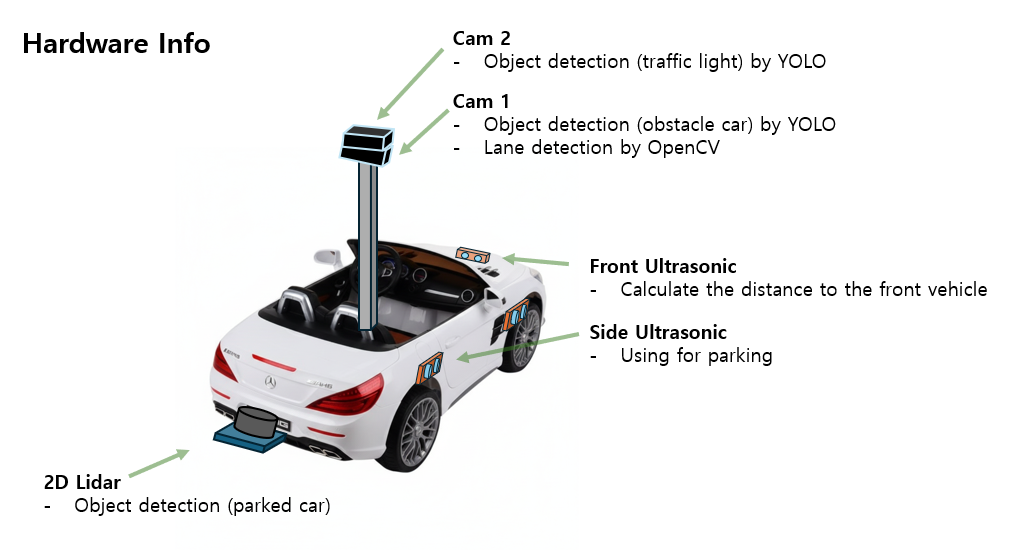
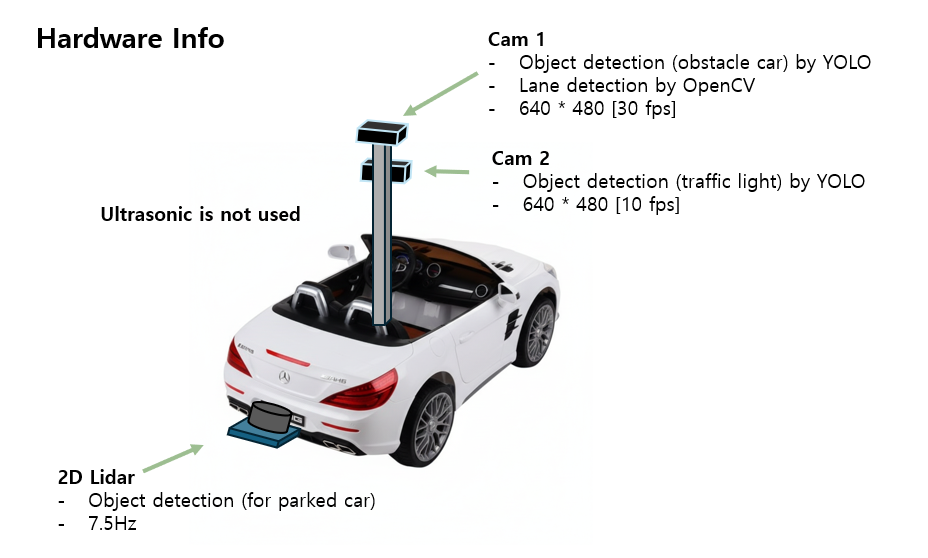
edit readme

Changed region(s): [[0.0312, 0.0617, 0.9688, 0.9564], [0.0, 0.0309, 0.25, 0.0926], [0.4062, 0.0926, 0.4375, 0.1543]]

diff --git a/laser_detection/README.md b/laser_detection/README.md
@@ -1,8 +1,43 @@
 # 2D LiDAR Car Detection
 
-2D LiDAR를 활용하여 차량을 검출 및 tracking 하는 패키지.
-![Demo GIF](./imgs/tracking1.gif)
-<br><br>
+### 2D LiDAR를 활용하여 주차 미션을 위한 차량을 Detection 및 Tracking 하는 패키지.
+![Demo GIF](./assets/tracking1.gif)
+<br>
+- Id : 4, 6 is parked car
+<br>
+
+## Process
+![process block](./assets/flow.png)
+1. **/scan**을 받아 전처리(ROI) 및 **PointCloud**로 변환 
+2. 이전 프레임에 감지된 객체로부터 **Constant Velocity** 모델을 적용하여 예상 위치 지정. <br>만약 감지된 프레임이 없다면 곧바로 **Euclidean Clustering**을 통해 객체 감지. 
+3. 각 객체의 예상 위치로부터 주변의 **Pointcloud를 객체에 할당**. 
+4. 객체가 할당된 Pointcloud를 가지고 있으면 해당 PointCloud에 **Circle fitting**.<br> PointCloud가 할당되지 않았으면 **Pred 상태 유지**(ex 10프레임 동안 CV로 Prediction)
+5. 객체에 할당되지 않은 나머지 **PointCloud에 대해서 Euclidean Clustering** 진행.
+
+
+### Key Strategies
+- 2D Lidar의 불안정성과 검출되는 Point의 부족함을 고려하여 **Tracking**이 가능하도록 하였음. <br> 또한, 한번 감지한 물체는 처음 Euclidean clustering의 조건에 맞지 않더라도 남아있는 PointCloud가 하나라도 있다면 **지속해서 감지**할 수 있도록 설계함.
+
+- **why not L-shape fitting?** <br>
+Lidar에 찍히는 실제 차량의 PointCloud가 sparse하고 L-Shape이 아닌 상황 많기 때문에 사각형 fitting이 흔들려 center point도 흔들리게 된다. 해당 알고리즘은 parking planner 에서 stanley path을 만드는데 사용됨으로, detection되는 객체의 center point 안정성이 중요하다. 따라서 PointCloud의 중심점을 기반으로 한 피팅 방법을 사용하였다.
+
+## Topics
+
+### Input Topic
+| Name | Type | Uses |
+| :--- | :--- | :--- |
+| `/scan` | `sensor_msgs/LaserScan` | raw data |
+
+### Output Topics
+| Name | Type | Uses |
+| :--- | :--- | :--- |
+| `/local_costmap` | `nav_msgs/OccupancyGrid` | occupancy grid |
+| `/clustered_cloud` | `sensor_msgs/PointCloud2` | visualization & clustering |
+| `/detection_markers` | `visualization_msgs/MarkerArray` | visualization circle |
+| `/detection_poses` | `geometry_msgs/PoseArray` | center point, ID (x, y, ID) |
+| `/detection_poses` | `geometry_msgs/PoseArray` | center point for visualization (z = 0) |
+
+<br>
 
 ## File Structure
 
@@ -44,33 +79,5 @@ laser_detection/
 
 <br>
 
-## Topics
-
-### Input Topic
-| Name | Type | Uses |
-| :--- | :--- | :--- |
-| `/scan` | `sensor_msgs/LaserScan` | raw data |
-
-### Output Topics
-| Name | Type | Uses |
-| :--- | :--- | :--- |
-| `/local_costmap` | `nav_msgs/OccupancyGrid` | occupancy grid |
-| `/clustered_cloud` | `sensor_msgs/PointCloud2` | visualization & clustering |
-| `/detection_markers` | `visualization_msgs/MarkerArray` | visualization circle |
-| `/detection_poses` | `geometry_msgs/PoseArray` | center point, ID (x, y, ID) |
-| `/detection_poses` | `geometry_msgs/PoseArray` | center point for visualization (z = 0) |
-
-<br>
-
-## Process
-1. 유클리디안 클러스터링.
-2. 클러스터 내에서 두 점을 있는 가장 긴 직선의 길이를 구하고, 해당 거리 기반으로 차량으로 추정되는 클러스터를 filtering
-3. 각 클러스터에 ID를 부여하여 tracking 할 수 있도록 함.
-4. 한번 clustering 조건에 부합하면 유클리디안 클러스터링 조건에 맞지 않아도 pointcloud가 완전히 사라지지 않으면 계속 tracking.
-
-5. 완전히 사라지더라도 객체의 마지막 속도 기반으로 Constant Velocity Model을 적용하여 10 프레임 동안 유지.
-
-- **why not L-shape fitting?** (AABB) : lidar에 찍히는 실제 차량의 pointcloud가 sparse하고 L-Shape이 아닌 경우가 많기 때문에 사각형 fitting이 흔들려 center point도 흔들리게 된다. parking planner 에서 stanley path의 안정성이 중요함으로, 클러스터의 중점을 기반으로 한 피팅 방법을 사용.
-
 ### ToDo..
-- fitting 과정 중 정말 차가 아닌 것은 제거할 수 있도록. 하는 알고리즘을 추가.
+- fitting 과정 중 정말 차가 아닌 것(옷, 다리 등)은 제거할 수 있도록. 하는 알고리즘을 추가.
